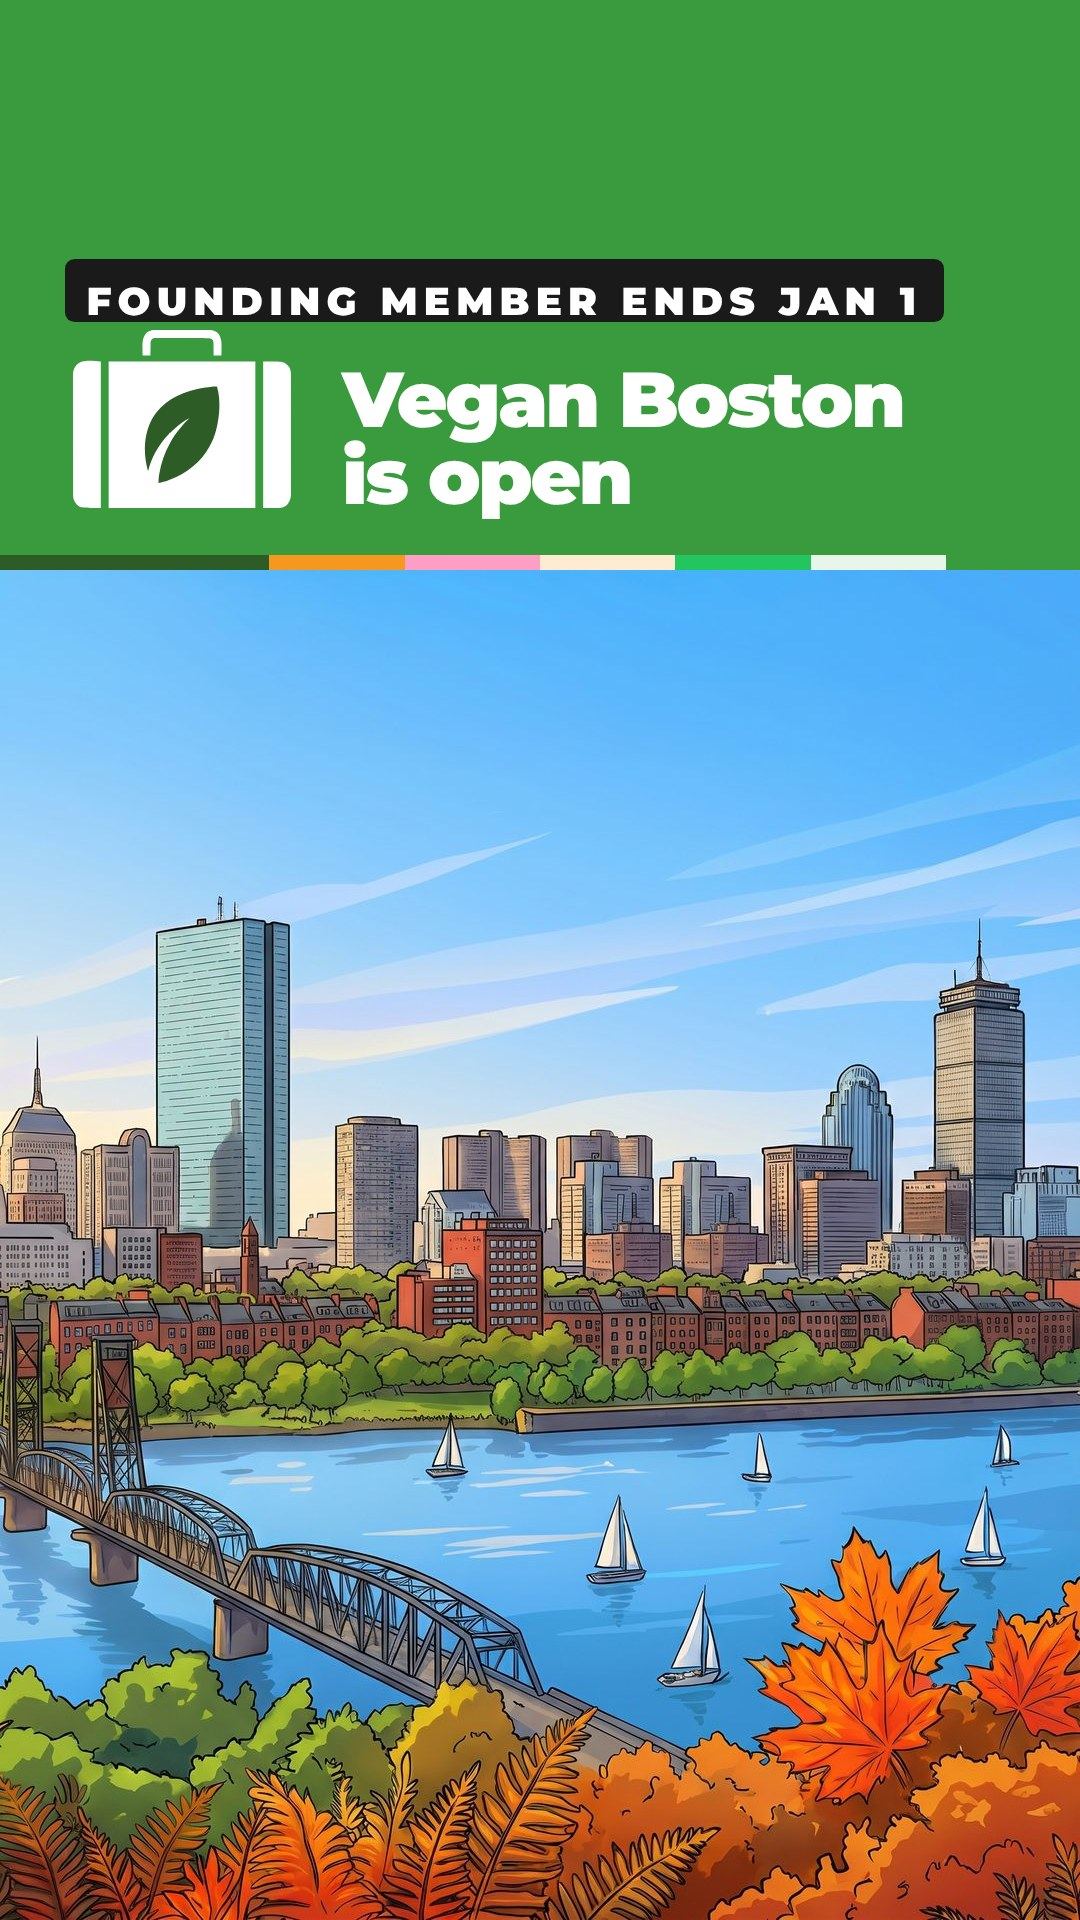
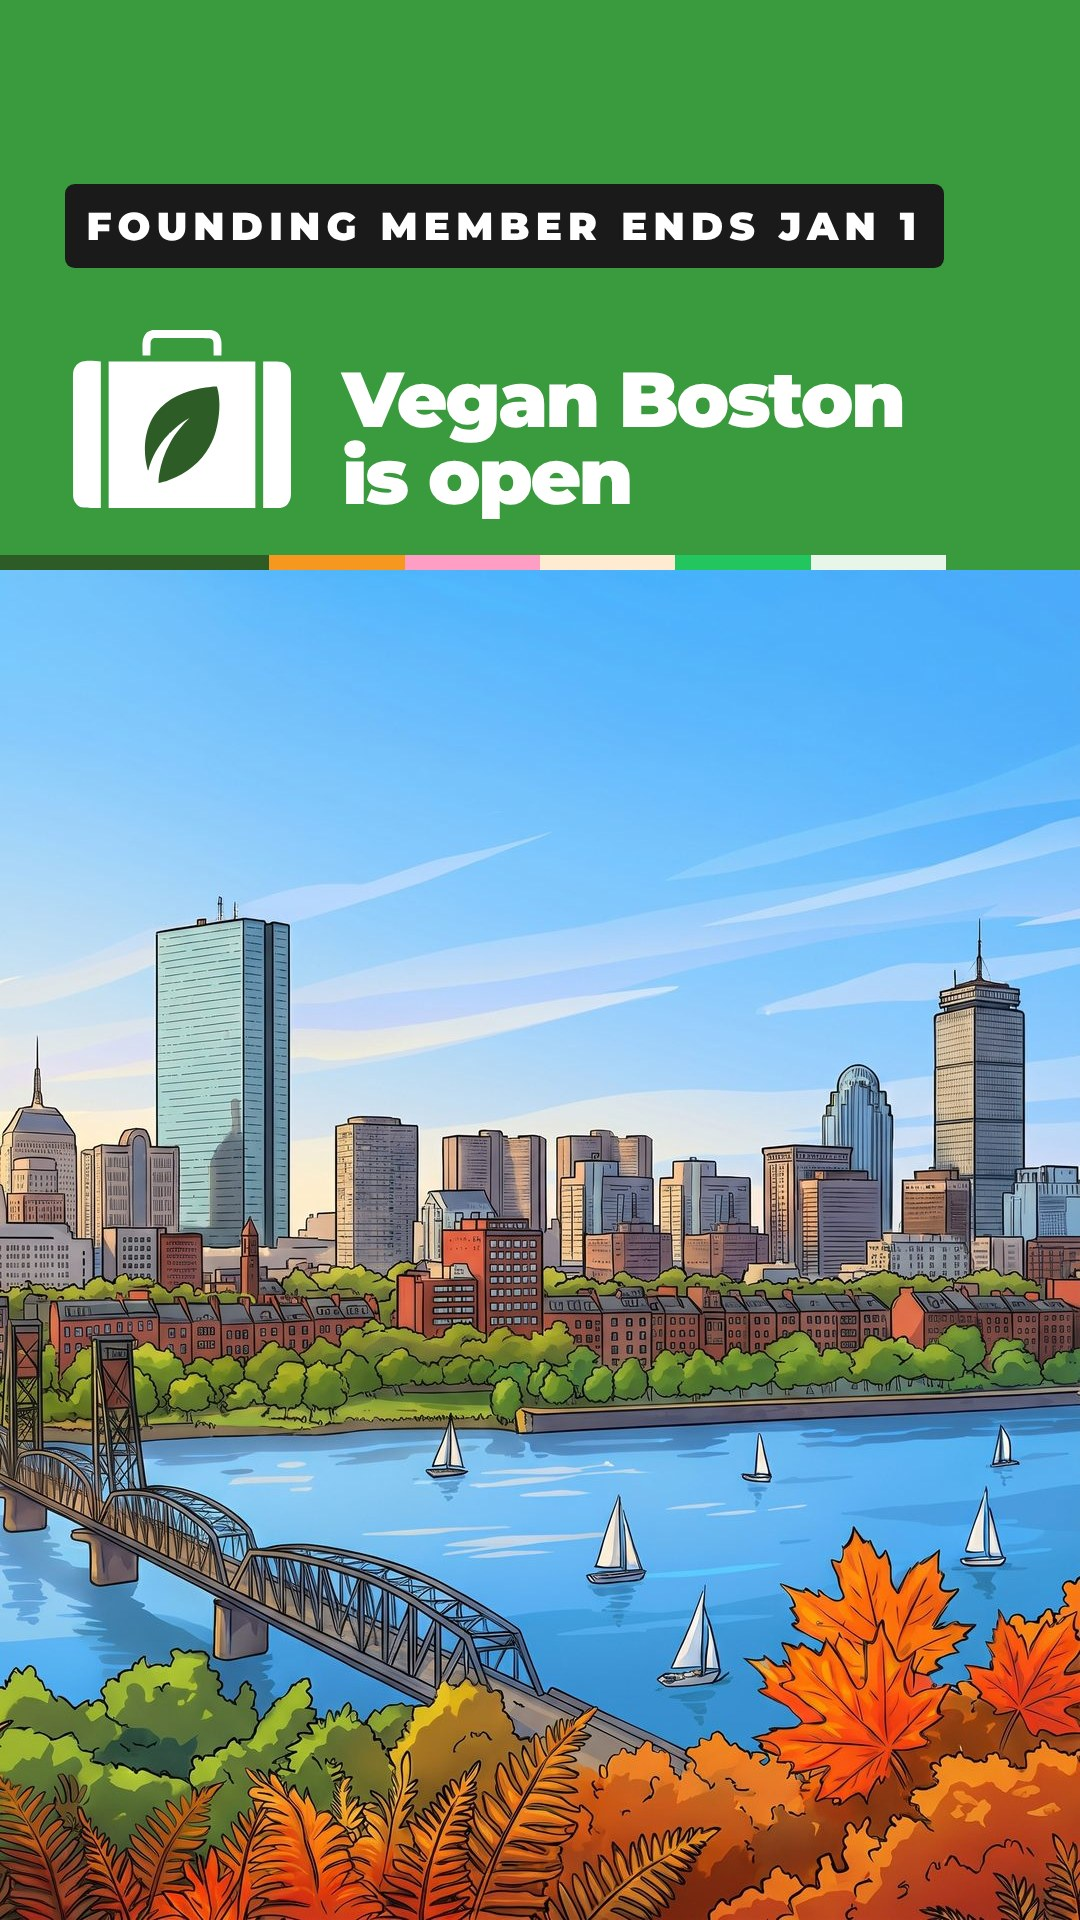
Stories get headroom between the label and the headline (Sean, 2026-11-15)
Nine stories of the week of Nov 16 re-rendered with the label raised to
match the Friday bounty story; the pictures are unchanged. Uploaded as
-v2 files, slots pointed at them, the seven scheduled ones re-sent to
Metricool and read back. The story renderers carry the headroom; the
locked brand-kit template is unchanged. New stories-preview builder.

Claude-Session: https://claude.ai/code/session_01Au68azsaxwsvtQqEzP5LgE

Changed region(s): [[0.0611, 0.0938, 0.8861, 0.1875]]

diff --git a/scripts/brand-templates/reel.js b/scripts/brand-templates/reel.js
@@ -34,6 +34,7 @@ const frame = (s, i, withArt) => { const dark = DARK[s.color];
   await p.goto(BASE + '/mocks/brand-kit/templates', { waitUntil: 'domcontentloaded' });
   const page = (withArt) => `<!doctype html><html><head><meta charset="utf-8"><base href="${BASE}/"><style>${css}
     html,body{background:transparent!important;padding:0;margin:0} .fx{width:1080px;border-radius:0!important;box-shadow:none!important;margin:0}
+    .s916 .top{padding-top:17cqw!important} /* headroom between the label and the headline, matched to the bounty story (Sean, 2026-11-15) */
     .s916 .art,.fx,.tf{background:transparent!important}</style></head><body>${SPEC.shots.map((s, i) => frame(s, i, withArt)).join('')}</body></html>`;
   // 1. Each shot's frame with the picture (for review and the cover), then the same frame with an empty picture box (the overlay).
   for (const withArt of [true, false]) {

diff --git a/public/social/review-2026-11-16/scarcity-identity/render.js b/public/social/review-2026-11-16/scarcity-identity/render.js
@@ -38,6 +38,7 @@ const story = `<div class="tf s916 fx" id="story"><div class="top" style="${C}">
 const html = `<!doctype html><html><head><meta charset="utf-8"><base href="${BASE}/"><style>${css}
   body{background:#fff;padding:0;margin:0} .fx{width:1080px;border-radius:0!important;box-shadow:none!important}
   .s916 .top h5{font-size:7.2cqw!important}
+  .s916 .top{padding-top:17cqw!important} /* headroom between the label and the headline, matched to the bounty story (Sean, 2026-11-15) */
   .s45 .band{display:grid!important;grid-template-columns:auto 1fr;grid-template-rows:auto auto;column-gap:3.4cqw;row-gap:2.2cqw;
     align-content:center;padding:2.6cqw 5cqw 3.8cqw!important}
   .s45 .band .bmark{height:12cqw!important;grid-row:1;align-self:center}

diff --git a/scripts/brand-templates/stories-preview.py b/scripts/brand-templates/stories-preview.py
@@ -1,0 +1,41 @@
+# The week's stories view for Sean (Sean, 2026-11-15: feed posts and stories seen separately): one row per day, each story with its
+# Eastern time and status under it (green Scheduled, pink Waiting). Reads the slots JSON written by this query (run through the
+# Supabase connector and saved to a file):
+#   select to_char(slot_at at time zone 'America/New_York','Dy|HH12:MI AM') et, status, assets->0->>'url' url from ve_social_slots
+#   where brand_slug='vegans-explore' and kind='story' and status<>'skipped' and slot_at >= '<monday>' and slot_at < '<next monday>' order by slot_at;
+# Pictures come from the repo when the url's path after media/social/ exists under public/social/ (the "-v2" suffix dropped), else from the url.
+# Usage: python3 scripts/brand-templates/stories-preview.py slots.json "Stories, week of Nov 16" out.jpg
+import io, json, os, re, sys, urllib.request
+from PIL import Image, ImageDraw, ImageFont
+
+rows, title, out = json.load(open(sys.argv[1])), sys.argv[2], sys.argv[3]
+F = '/usr/share/fonts/truetype/dejavu/DejaVuSans-Bold.ttf'
+ft, fd, fl = ImageFont.truetype(F, 22), ImageFont.truetype(F, 26), ImageFont.truetype(F, 13)
+TW, TH, BAR, GAP, LEFT = 180, 320, 28, 14, 110
+DAYS = ['Mon', 'Tue', 'Wed', 'Thu', 'Fri', 'Sat', 'Sun']
+by = {d: [r for r in rows if r['et'].split('|')[0] == d] for d in DAYS}
+cols = max(1, max(len(v) for v in by.values()))
+W, H = LEFT + cols * (TW + GAP) + 10, 70 + len(DAYS) * (TH + BAR + 26)
+im = Image.new('RGB', (W, H), 'white'); dr = ImageDraw.Draw(im)
+dr.text((20, 20), title, font=ft, fill='#1a1a1a')
+
+def pic(u):
+    m = re.search(r'/media/social/(.+)$', u or '')
+    if m:
+        local = 'public/social/' + re.sub(r'-v\d+\.jpg$', '.jpg', m.group(1))
+        if os.path.exists(local): return Image.open(local)
+    return Image.open(io.BytesIO(urllib.request.urlopen(u).read()))
+
+y = 60
+for d in DAYS:
+    dr.text((20, y + TH // 2 - 14), d, font=fd, fill='#1a1a1a')
+    for i, r in enumerate(by[d]):
+        x = LEFT + i * (TW + GAP)
+        im.paste(pic(r['url']).convert('RGB').resize((TW, TH)), (x, y))
+        ok = r['status'] == 'scheduled'
+        dr.rectangle([x, y + TH, x + TW, y + TH + BAR], fill='#2E5E2B' if ok else '#C2185B')
+        t = r['et'].split('|')[1].lstrip('0').replace(':00 ', ' ') + ' · ' + ('Scheduled' if ok else 'Waiting')
+        dr.text((x + 8, y + TH + 6), t, font=fl, fill='white')
+    y += TH + BAR + 26
+im.save(out, quality=86)
+print('wrote', out, im.size)
